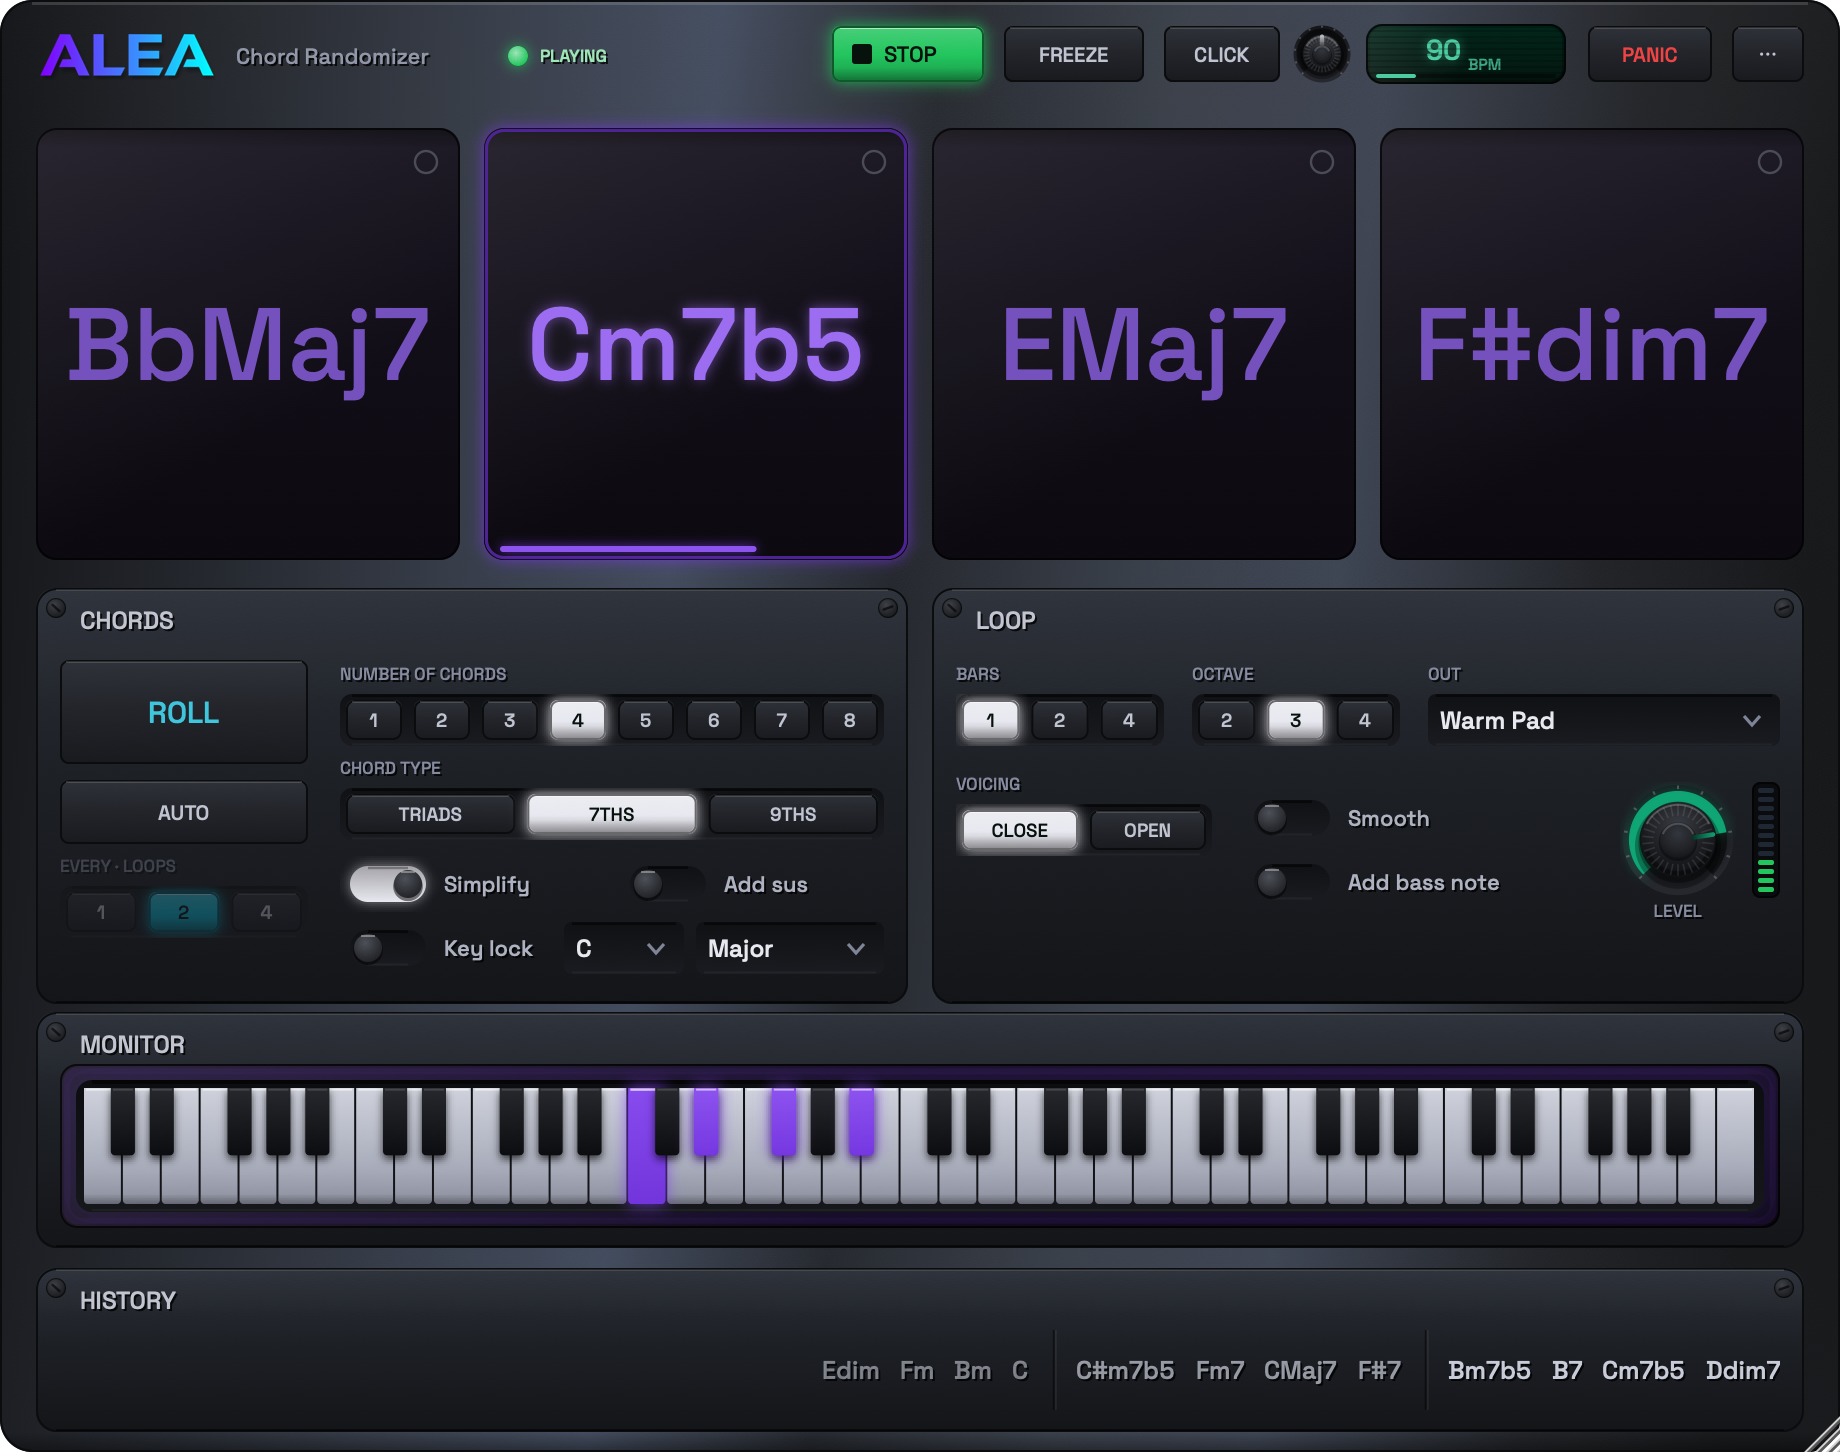
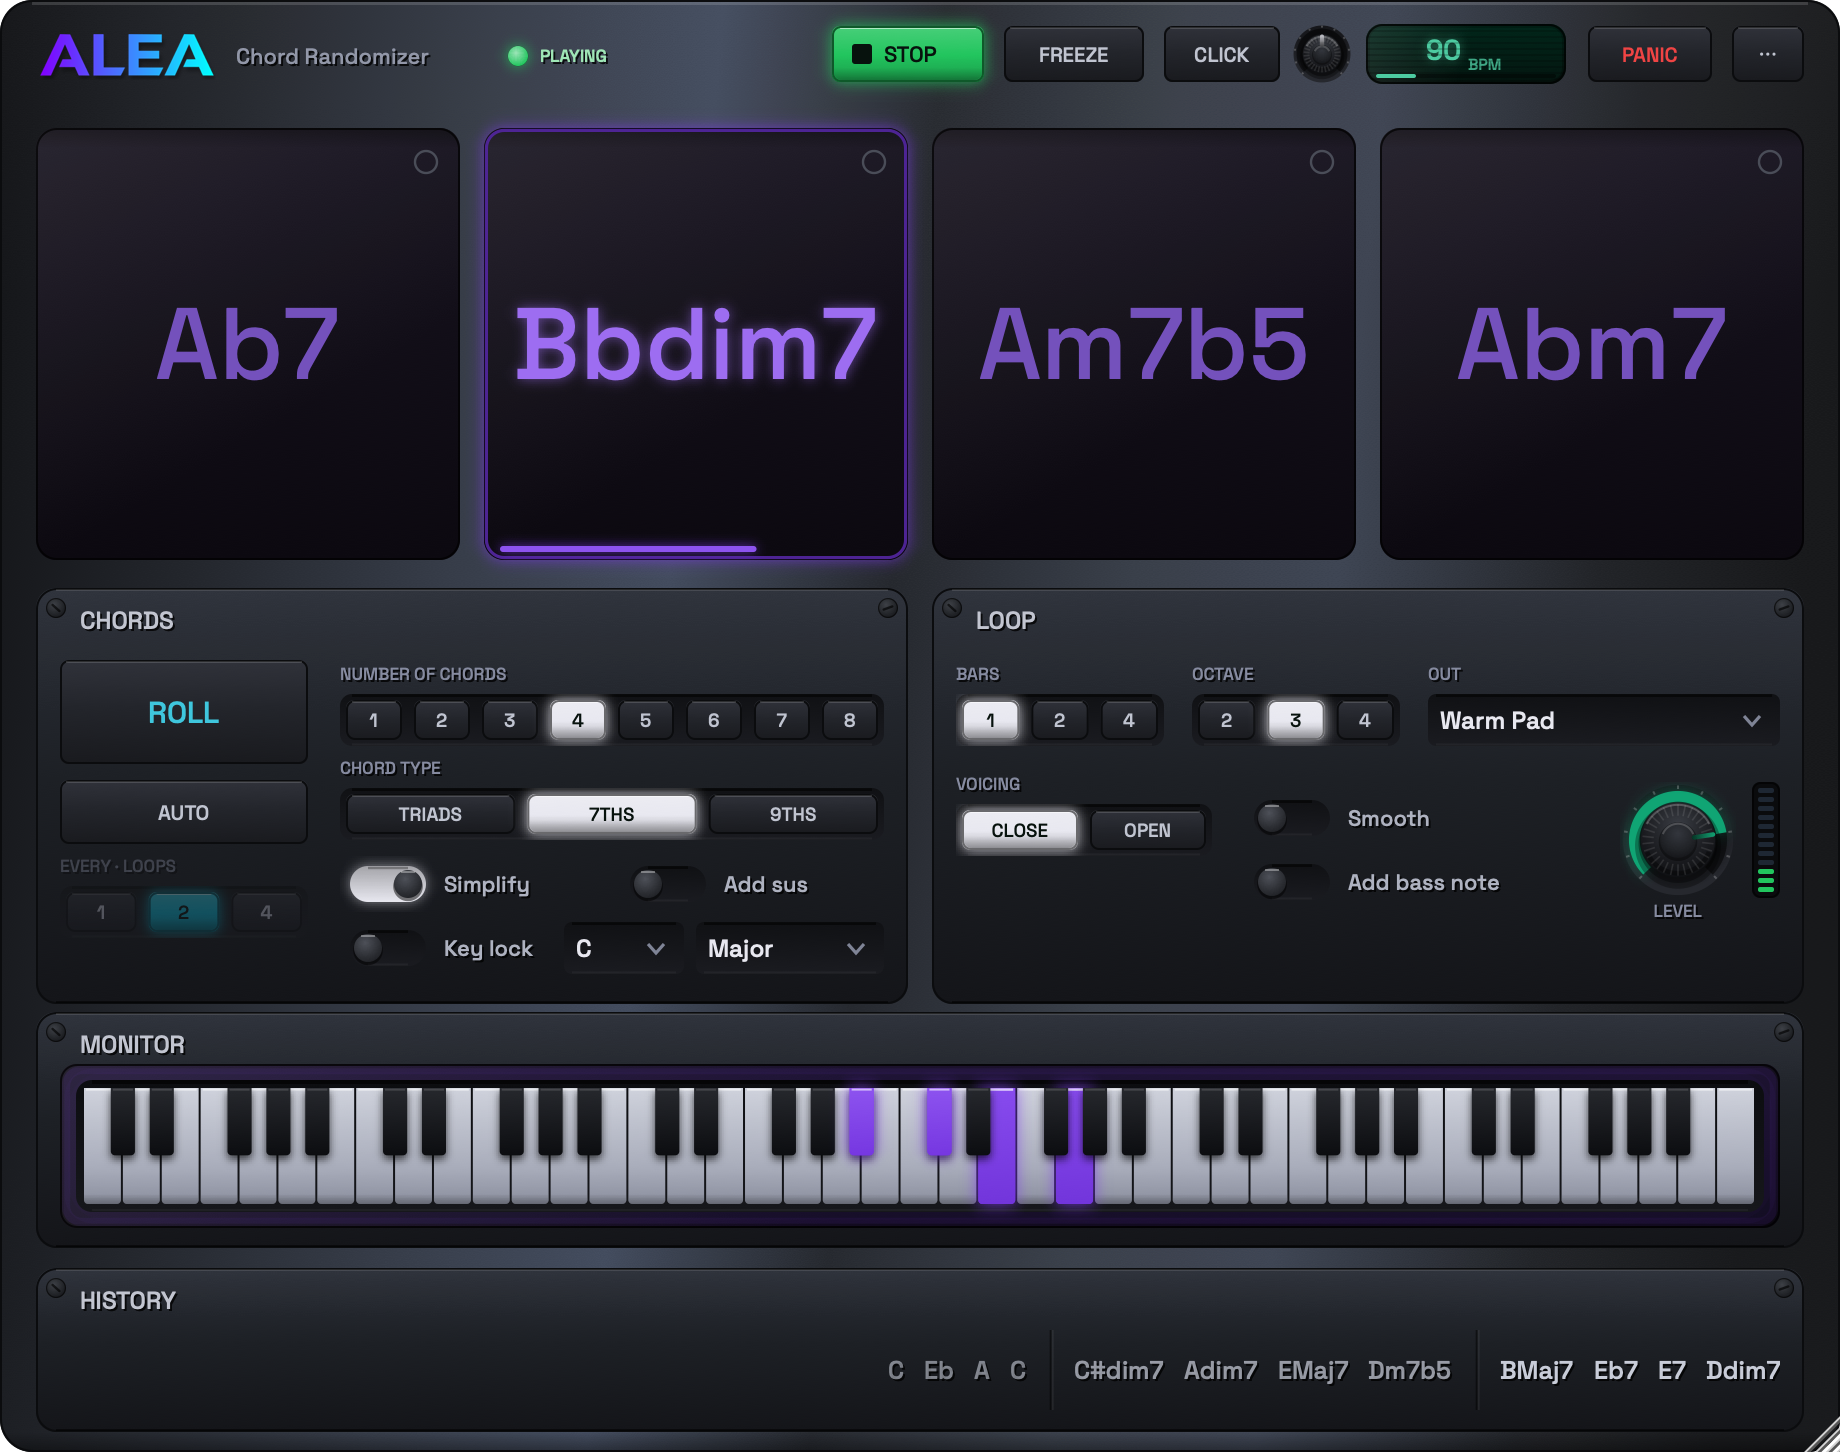
One OUT chooser, and the id scheme finally has a home
Both editors built the same grouped menu and both hard-coded the same id
scheme - 1 + flavour for a sound, 50 for MIDI to DAW, 100 + index for a
device - with the same explanatory comment pasted into each. A contract
duplicated in two places with no owner is how the two products drift, and
it is what let the MIDI hotplug refresh exist in only one of them.

ui::buildOutputChooser now fills the box and ui::outputChoiceForId decodes
a selection back, so building and decoding sit together and a new id range
cannot be added to one product and forgotten in the other. The hotplug test
is shared too (ui::midiDevicesChanged), which is the specific drift that
already happened.

The dev tool that renders the OUT popup for styling review turned out to
be a THIRD copy of the population loop. It uses the shared builder now, so
the shot shows the real menu; posed as a plugin, so no machine's device
list can change the image.

Screenshots regenerated: UI code changed, and the OUT panel is in frame.

diff --git a/Source/UI.cpp b/Source/UI.cpp
@@ -658,53 +658,15 @@ void MorphBar::mouseUp (const juce::MouseEvent&)
 // Mirrors ChordsEditor::buildOutputBox - the two products share the id scheme.
 void OutputPanel::buildOutputBox()
 {
-    outputBox->clear (juce::dontSendNotification);
-
-    const auto current = alea.getStandaloneOutput();
-
-    // The sound list comes from the shared flavour table (Source/Sound.h),
-    // grouped by section: SYNTH / INSTRUMENT, then MIDI. Flavour ids are
-    // 1 + alea::Flavour; "MIDI to DAW" is 50; devices from 100.
-    if (! standalone)
-        outputBox->addItem ("MIDI to DAW", 50); // plugin default, listed first
-
-    for (int group : { alea::groupSynth, alea::groupInstrument })
-    {
-        outputBox->addSectionHeading (alea::groupName (group));
-        for (const auto& f : alea::flavourTable())
-            if (f.group == group)
-                outputBox->addItem (f.name, 1 + f.flavour);
-    }
-
-    // Standalone: the internal sounds (Warm Pad default) or any MIDI device.
-    // Plugin: pure MIDI by default; the synth makes hosts that cannot route
-    // plugin MIDI (AU in Live/Logic) hear Alea directly.
-    devices.clear();
-    if (standalone)
-    {
-        devices = juce::MidiOutput::getAvailableDevices();
-        if (! devices.isEmpty())
-            outputBox->addSectionHeading ("MIDI");
-        for (int i = 0; i < devices.size(); ++i)
-            outputBox->addItem (devices[i].name, 100 + i);
-    }
-
-    outputBox->setSelectedId (standalone ? 1 + alea::warmPad : 50, juce::dontSendNotification);
-    if (const int flavour = alea::flavourFromChoice (current); flavour >= 0 && alea.synthOn.load())
-        outputBox->setSelectedId (1 + flavour, juce::dontSendNotification);
-    for (int i = 0; i < devices.size(); ++i)
-        if (devices[i].identifier == current)
-            outputBox->setSelectedId (100 + i, juce::dontSendNotification);
+    // Shared with the Chord Randomizer (ui::buildOutputChooser): same grouped
+    // menu, same id scheme, one implementation. Rebuilt on hotplug, so it has
+    // to restore the current selection rather than assume a fresh panel.
+    ui::buildOutputChooser (*outputBox, standalone, alea.synthOn.load(),
+                            alea.getStandaloneOutput(), devices);
 
     outputBox->onChange = [this]
     {
-        const int id = outputBox->getSelectedId();
-        if (id >= 1 && id <= alea::numFlavours)
-            alea.setStandaloneOutput (alea::choiceForFlavour (id - 1));
-        else if (id == 50)
-            alea.setStandaloneOutput ({});
-        else if (id >= 100 && id - 100 < devices.size())
-            alea.setStandaloneOutput (devices[id - 100].identifier);
+        alea.setStandaloneOutput (ui::outputChoiceForId (outputBox->getSelectedId(), devices));
     };
 }
 
@@ -713,12 +675,8 @@ void OutputPanel::pollDeviceChanges()
     if (! standalone || --devicePollCountdown > 0)
         return;
 
-    devicePollCountdown = 45;
-    auto fresh = juce::MidiOutput::getAvailableDevices();
-    bool changed = fresh.size() != devices.size();
-    for (int i = 0; ! changed && i < fresh.size(); ++i)
-        changed = fresh[i].identifier != devices[i].identifier;
-    if (changed)
+    devicePollCountdown = 45; // ~3 s at the editor's 15 Hz
+    if (ui::midiDevicesChanged (devices))
         buildOutputBox();
 }
 

diff --git a/Source/Chords/ChordsEditor.cpp b/Source/Chords/ChordsEditor.cpp
@@ -738,48 +738,14 @@ void ChordsEditor::applyAutoGate()
 
 void ChordsEditor::buildOutputBox()
 {
-    // The sound list comes from the shared flavour table (Source/Sound.h),
-    // grouped by section: SYNTH / INSTRUMENT, then MIDI. Flavour ids are
-    // 1 + alea::Flavour; "MIDI to DAW" is 50; devices from 100.
-    outputBox.clear (juce::dontSendNotification);
-    if (! standalone)
-        outputBox.addItem ("MIDI to DAW", 50); // plugin default, listed first
-
-    for (int group : { alea::groupSynth, alea::groupInstrument })
-    {
-        outputBox.addSectionHeading (alea::groupName (group));
-        for (const auto& f : alea::flavourTable())
-            if (f.group == group)
-                outputBox.addItem (f.name, 1 + f.flavour);
-    }
-
-    devices.clear();
-    if (standalone)
-    {
-        devices = juce::MidiOutput::getAvailableDevices();
-        if (! devices.isEmpty())
-            outputBox.addSectionHeading ("MIDI");
-        for (int i = 0; i < devices.size(); ++i)
-            outputBox.addItem (devices[i].name, 100 + i);
-    }
-
-    const auto current = chordsProc.getStandaloneOutput();
-    outputBox.setSelectedId (standalone ? 1 + alea::warmPad : 50, juce::dontSendNotification);
-    if (const int flavour = alea::flavourFromChoice (current); flavour >= 0 && chordsProc.synthOn.load())
-        outputBox.setSelectedId (1 + flavour, juce::dontSendNotification);
-    for (int i = 0; i < devices.size(); ++i)
-        if (devices[i].identifier == current)
-            outputBox.setSelectedId (100 + i, juce::dontSendNotification);
+    // Shared with Scale Shifter (ui::buildOutputChooser): same grouped menu,
+    // same id scheme, one implementation.
+    ui::buildOutputChooser (outputBox, standalone, chordsProc.synthOn.load(),
+                            chordsProc.getStandaloneOutput(), devices);
 
     outputBox.onChange = [this]
     {
-        const int id = outputBox.getSelectedId();
-        if (id >= 1 && id <= alea::numFlavours)
-            chordsProc.setStandaloneOutput (alea::choiceForFlavour (id - 1));
-        else if (id == 50)
-            chordsProc.setStandaloneOutput ({});
-        else if (id >= 100 && id - 100 < devices.size())
-            chordsProc.setStandaloneOutput (devices[id - 100].identifier);
+        chordsProc.setStandaloneOutput (ui::outputChoiceForId (outputBox.getSelectedId(), devices));
     };
 }
 
@@ -850,11 +816,7 @@ void ChordsEditor::timerCallback()
     if (standalone && --devicePollCountdown <= 0)
     {
         devicePollCountdown = 90;
-        auto fresh = juce::MidiOutput::getAvailableDevices();
-        bool changed = fresh.size() != devices.size();
-        for (int i = 0; ! changed && i < fresh.size(); ++i)
-            changed = fresh[i].identifier != devices[i].identifier;
-        if (changed)
+        if (ui::midiDevicesChanged (devices))
             buildOutputBox();
     }
 

diff --git a/Source/Hardware.cpp b/Source/Hardware.cpp
@@ -1,5 +1,6 @@
 #include "Hardware.h"
 #include "BinaryData.h"
+#include "Sound.h"   // the flavour table the OUT chooser lists
 
 namespace ui
 {
@@ -1330,6 +1331,66 @@ namespace
         juce::Image logo;
         juce::TextEditor text;
     };
+}
+
+//==============================================================================
+// The OUT chooser (shared: same menu, same id scheme, in both products)
+
+void buildOutputChooser (juce::ComboBox& box, bool standalone, bool synthOn,
+                         const juce::String& current,
+                         juce::Array<juce::MidiDeviceInfo>& devices)
+{
+    box.clear (juce::dontSendNotification);
+
+    if (! standalone)
+        box.addItem ("MIDI to DAW", 50); // plugin default, listed first
+
+    for (int group : { alea::groupSynth, alea::groupInstrument })
+    {
+        box.addSectionHeading (alea::groupName (group));
+        for (const auto& f : alea::flavourTable())
+            if (f.group == group)
+                box.addItem (f.name, 1 + f.flavour);
+    }
+
+    devices.clear();
+    if (standalone)
+    {
+        devices = juce::MidiOutput::getAvailableDevices();
+        if (! devices.isEmpty())
+            box.addSectionHeading ("MIDI");
+        for (int i = 0; i < devices.size(); ++i)
+            box.addItem (devices[i].name, 100 + i);
+    }
+
+    // Default first, then let whatever is actually selected win. Standalone
+    // makes sound out of the box; a plugin sends MIDI to the host.
+    box.setSelectedId (standalone ? 1 + alea::warmPad : 50, juce::dontSendNotification);
+    if (const int flavour = alea::flavourFromChoice (current); flavour >= 0 && synthOn)
+        box.setSelectedId (1 + flavour, juce::dontSendNotification);
+    for (int i = 0; i < devices.size(); ++i)
+        if (devices[i].identifier == current)
+            box.setSelectedId (100 + i, juce::dontSendNotification);
+}
+
+juce::String outputChoiceForId (int id, const juce::Array<juce::MidiDeviceInfo>& devices)
+{
+    if (id >= 1 && id <= alea::numFlavours)
+        return alea::choiceForFlavour (id - 1);
+    if (id >= 100 && id - 100 < devices.size())
+        return devices[id - 100].identifier;
+    return {}; // 50, or anything unrecognised: MIDI to the host
+}
+
+bool midiDevicesChanged (const juce::Array<juce::MidiDeviceInfo>& known)
+{
+    const auto fresh = juce::MidiOutput::getAvailableDevices();
+    if (fresh.size() != known.size())
+        return true;
+    for (int i = 0; i < fresh.size(); ++i)
+        if (fresh[i].identifier != known[i].identifier)
+            return true;
+    return false;
 }
 
 //==============================================================================

diff --git a/Source/Hardware.h b/Source/Hardware.h
@@ -282,6 +282,35 @@ private:
     JUCE_DECLARE_NON_COPYABLE_WITH_LEAK_DETECTOR (SegmentedSelector)
 };
 
+//==============================================================================
+// The OUT chooser, shared by both products.
+//
+// The menu ids are a contract, and they used to be hard-coded in both editors
+// with the same explanatory comment pasted twice:
+//
+//   1 + alea::Flavour   an internal sound
+//   50                  "MIDI to DAW" (plugin only)
+//   100 + index         a MIDI output device (standalone only)
+//
+// Keeping the building and the decoding together is the point: a new id range
+// cannot now be added to one product and forgotten in the other.
+
+// Fills the box with the grouped sound list and, in standalone, the current
+// MIDI devices, then selects whatever `current` names. `devices` is filled in
+// with the device list the ids refer to, and the caller keeps it to decode
+// selections and to detect hotplugs. Does not touch onChange.
+void buildOutputChooser (juce::ComboBox&, bool standalone, bool synthOn,
+                         const juce::String& current,
+                         juce::Array<juce::MidiDeviceInfo>& devices);
+
+// Turns a selected id back into the output choice string the processors take
+// ("synth"/"piano"/..., a device identifier, or "" for MIDI to the host).
+juce::String outputChoiceForId (int id, const juce::Array<juce::MidiDeviceInfo>& devices);
+
+// True when the available MIDI devices differ from `known` - the hotplug test
+// both editors poll with, so a device appearing mid-session is never missed.
+bool midiDevicesChanged (const juce::Array<juce::MidiDeviceInfo>& known);
+
 // The family About dialog shell: wordmark over a subtle gradient, a divider in
 // the scale colours, the product's text below. Content comes from the caller.
 void showAboutDialog (const juce::String& title, const juce::String& body,

diff --git a/Tools/UISnapshot.cpp b/Tools/UISnapshot.cpp
@@ -326,13 +326,11 @@ static int menuShot (const juce::String& path)
 
     juce::ComboBox box;
     box.setLookAndFeel (&editor->getLookAndFeel());
-    for (int group : { alea::groupSynth, alea::groupInstrument })
-    {
-        box.addSectionHeading (alea::groupName (group));
-        for (const auto& f : alea::flavourTable())
-            if (f.group == group)
-                box.addItem (f.name, 1 + f.flavour);
-    }
+    // Built by the shared chooser, so this shot shows the real menu rather
+    // than a third copy of the population loop that could drift from it.
+    // Posed as a plugin: no device list, so the shot is the same everywhere.
+    juce::Array<juce::MidiDeviceInfo> devices;
+    ui::buildOutputChooser (box, false, false, {}, devices);
 
     auto& menu = *box.getRootMenu();
     juce::Image image (juce::Image::ARGB, 300, 460, true);
